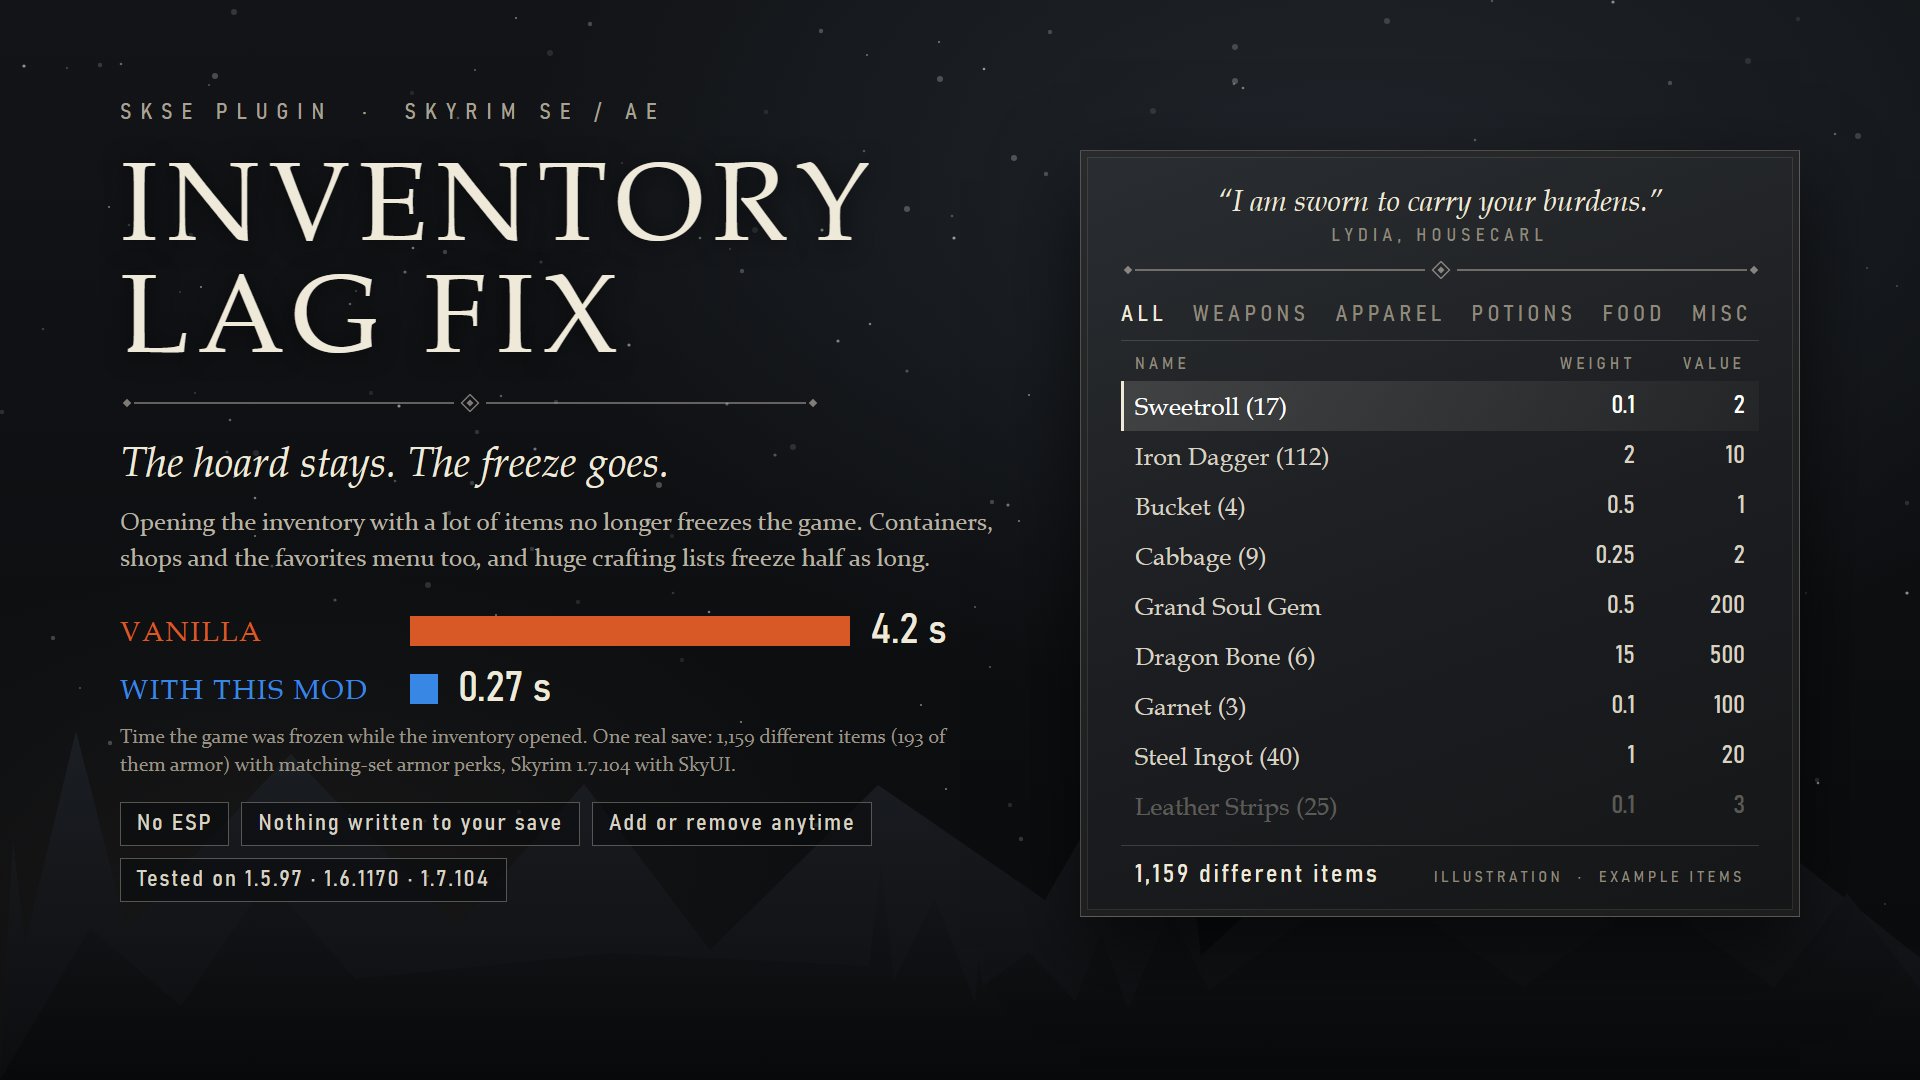
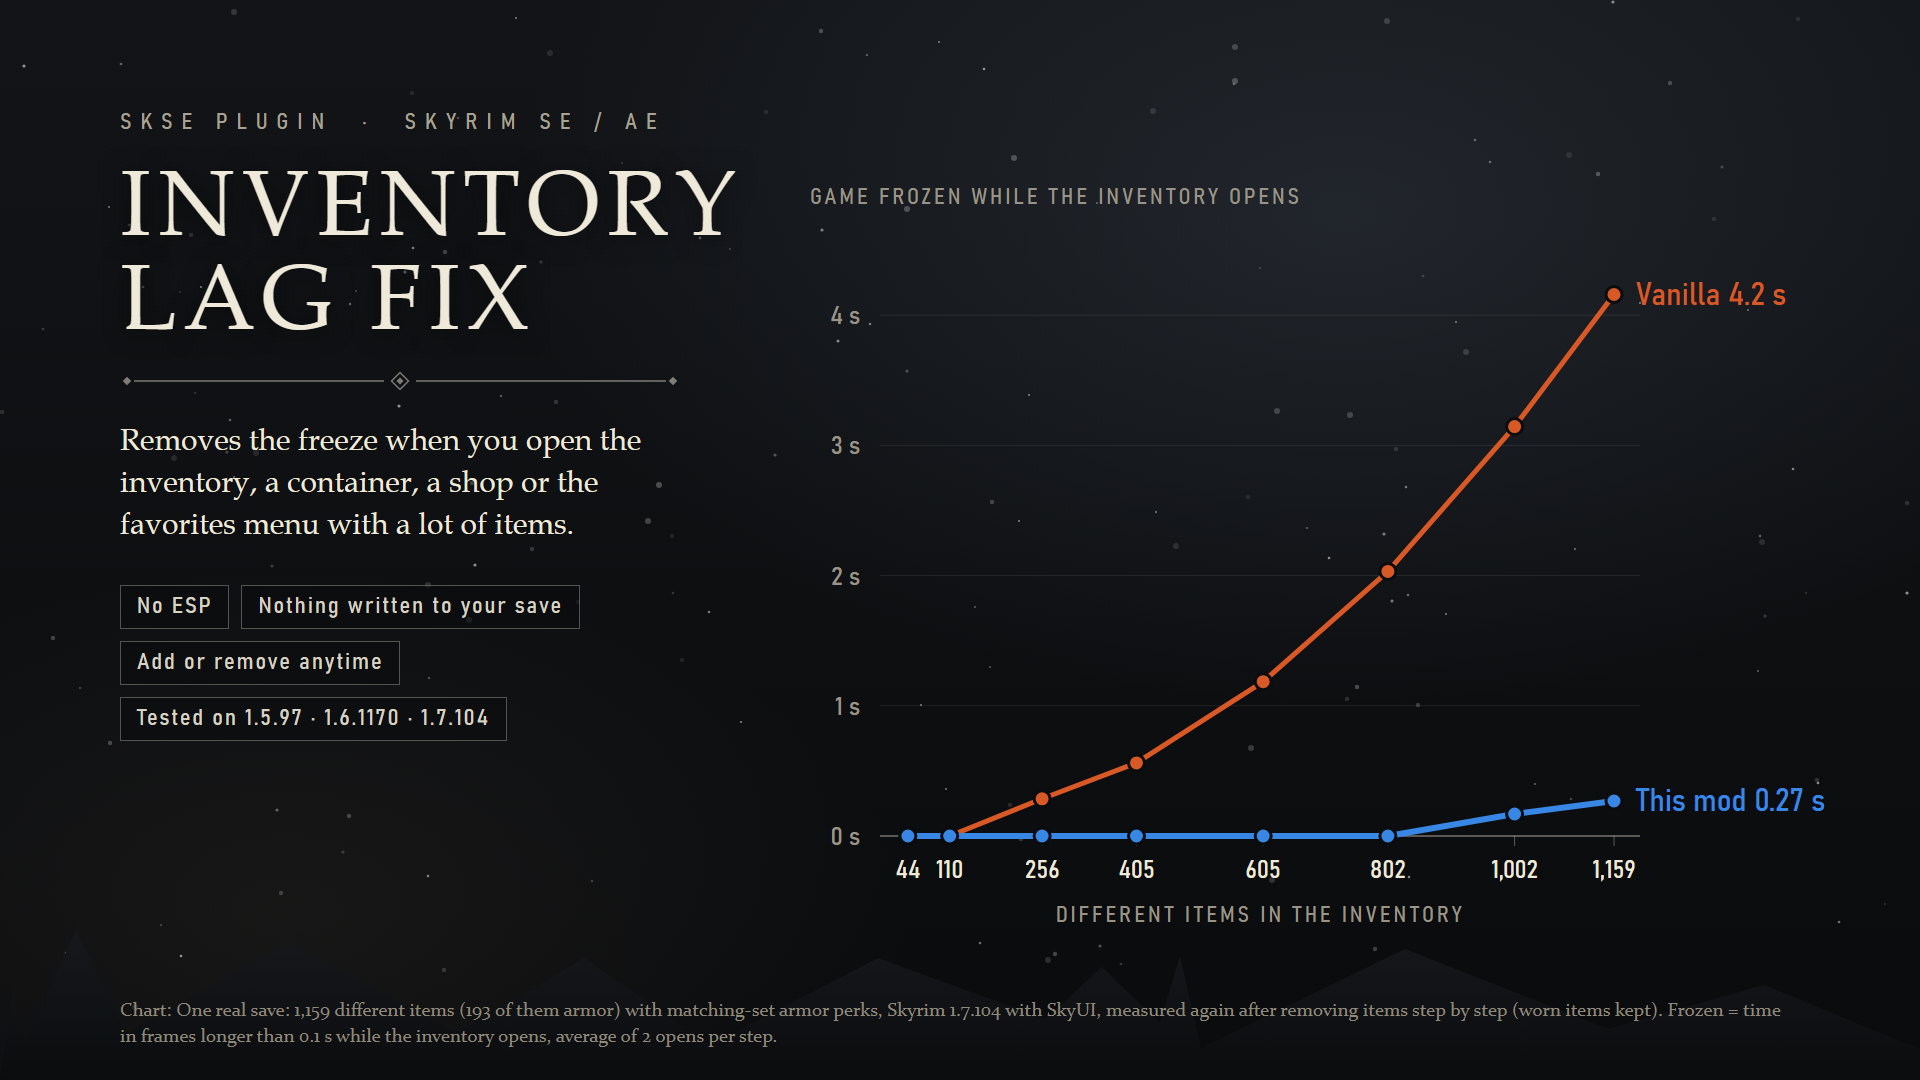
Show the freeze by item count in the README hero image
The hero now plots the measured freeze against the number of items on the trimmed save, so the separate scaling chart is removed.

diff --git a/README.md b/README.md
@@ -4,7 +4,7 @@
 <a href="LICENSE"><img src="https://img.shields.io/github/license/quoteproxy/InventoryLagFix" alt="MIT license"></a>
 <a href="https://buymeacoffee.com/quoteproxy"><img src="https://img.shields.io/badge/Buy_me_a_coffee-FFDD00?logo=buymeacoffee&logoColor=000" alt="Support on Buy Me a Coffee"></a>
 
-![Inventory Lag Fix: the hoard stays, the freeze goes. Time frozen while the inventory opens on one real save (1,159 different items, 193 of them armor, matching-set armor perks, Skyrim 1.7.104 with SkyUI): 4.2 s in vanilla, 0.27 s with this plugin](docs/images/hero.png)
+![Inventory Lag Fix: time the game froze while the inventory opened, by number of different items, on one real save trimmed step by step (at most 1,159 items, 193 of them armor, matching-set armor perks, Skyrim 1.7.104 with SkyUI). Vanilla: 0 s up to 110 items, rising to 4.2 s at 1,159. With this plugin: 0 s up to 802 items, 0.27 s at 1,159](docs/images/hero.png)
 
 An SKSE plugin for Skyrim Special Edition / Anniversary Edition (1.5.97, 1.6.x and 1.7.x). If you carry
 a lot of items, opening the inventory freezes the game for seconds, and the freeze grows quickly with
@@ -37,8 +37,6 @@ Measured on a real save with 1,159 items (4,876 extra-data lists), Skyrim 1.7.10
 | Open the favorites menu | 0.48 s | under 0.1 s |
 
 The same save trimmed to fewer items (time frozen while the inventory opens, average of 2 opens):
-
-![Line chart: the vanilla freeze climbs from 0 s at 110 items to 4.2 s at 1,159 items (4,876 extra-data lists), while with this plugin it stays at 0 s up to 802 items and reaches 0.27 s at 1,159 items](docs/images/scaling.png)
 
 | Items | 44 | 110 | 256 | 405 | 605 | 802 | 1,002 | 1,159 |
 |---|---|---|---|---|---|---|---|---|
